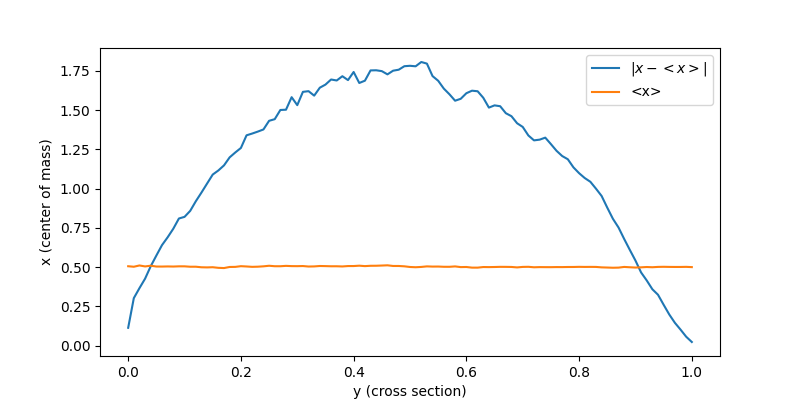
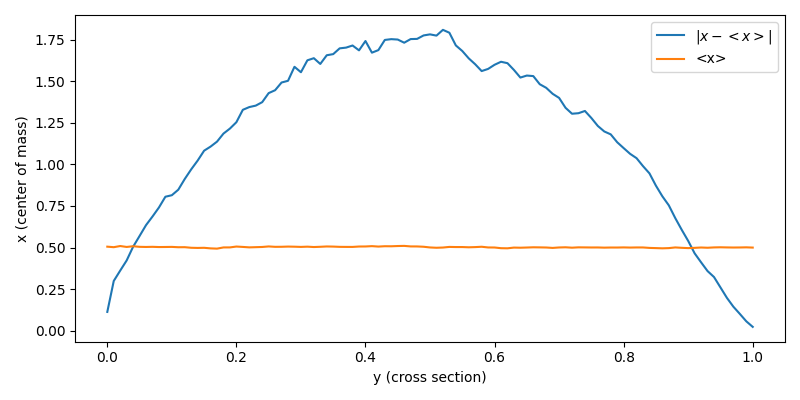
#26 Plots added; #24 Operational Excellence tasks

diff --git a/src/utils.py b/src/utils.py
@@ -2,6 +2,8 @@ import os
 import matplotlib.pyplot as plt
 import numpy as np
 
+from matplotlib.cm import get_cmap
+
 def plot_boolean_grid(grid, save_plot, filename):
     """
     Plots the final seed growth grid.
@@ -26,6 +28,8 @@ def plot_boolean_grid(grid, save_plot, filename):
     plt.imshow(grid, cmap="gray_r", origin="upper", extent=[0, 1, 0, 1])
     plt.axis("off")
 
+    plt.tight_layout() 
+
     if save_plot:
         plt.savefig(file_location, dpi=300)
         print(f"Plot saved as {file_location}")
@@ -49,6 +53,8 @@ def generate_heatmap(all_seed_growth_grids,
     plt.xlabel(xlabel, fontsize=16)
     plt.ylabel(ylabel, fontsize=16)
 
+    plt.tight_layout() 
+
     if save_plot:
         os.makedirs("results", exist_ok=True)
         save_location = os.path.join("results", plot_file_name)
@@ -68,6 +74,8 @@ def plot_histogram(data,
     #plt.title(title)
     plt.xlabel(xlabel, fontsize=16)
     plt.ylabel(ylabel, fontsize=16)
+
+    plt.tight_layout() 
     
     if save_plot:
         os.makedirs("results", exist_ok=True)
@@ -93,6 +101,8 @@ def plot_many_line(data_array,
     plt.xlabel(xlabel, fontsize=16)
     plt.ylabel(ylabel, fontsize=16)
     plt.legend()
+
+    plt.tight_layout() 
     
     if save_plot:
         os.makedirs("results", exist_ok=True)
@@ -121,6 +131,8 @@ def plot_variance(data,
     #plt.title(title)
     plt.xlabel(xlabel, fontsize=16)
     plt.ylabel(ylabel, fontsize=16)
+
+    plt.tight_layout() 
     
     if save_plot:
         os.makedirs("results", exist_ok=True)
@@ -153,6 +165,8 @@ def plot_many_runs_experiment(data,
     plt.ylabel('x (center of mass)')
     plt.legend()
 
+    plt.tight_layout() 
+
     if save_plot:
         plot_file_name = "deviation_" + plot_file_name
         os.makedirs("results", exist_ok=True)
@@ -163,9 +177,11 @@ def plot_many_runs_experiment(data,
     
     plt.figure(figsize=(8, 4))
     plt.plot(ys, num_cells_per_cross, label='$N_y$')
-    plt.xlabel('y (cross section)')
-    plt.ylabel('Number of cells')
+    plt.xlabel('y (cross section)', fontsize=16)
+    plt.ylabel('Number of cells', fontsize=16)
     plt.legend()
+
+    plt.tight_layout() 
 
     if save_plot:
         plot_file_name = "cross_section_" + plot_file_name
@@ -181,8 +197,9 @@ def plot_many_runs_experiment_multiple(sticking_prob_array,
                             plot_file_name="flat_histogram.png"):
     
     plt.figure(figsize=(8, 4))
+    cmap = get_cmap('winter')  # Use a colormap with easily distinguishable colors
 
-    for sticking_prob in sticking_prob_array:
+    for i, sticking_prob in enumerate(sticking_prob_array):
         sticking_prob_str = str(sticking_prob).replace(".", "_")
         data = load_data(load_file_name + str(sticking_prob_str) + "_sp.npy")
         num_runs, _, grid_size = data.shape
@@ -194,11 +211,13 @@ def plot_many_runs_experiment_multiple(sticking_prob_array,
         xdiff = np.abs(xs - center)
 
         num_cells_per_cross = np.sum(sum_grid, axis=1) / num_runs
-        plt.plot(ys, num_cells_per_cross, label=str(sticking_prob))
+        plt.plot(ys, num_cells_per_cross, label=str(sticking_prob), color=cmap(i/len(sticking_prob_array)))
 
-    plt.xlabel('y (cross section)')
-    plt.ylabel('Number of cells')
+    plt.xlabel('y (cross section)', fontsize=16)
+    plt.ylabel('Number of cells', fontsize=16)
     plt.legend()
+
+    plt.tight_layout() 
 
     if save_plot:
         plot_file_name = "cross_section_" + plot_file_name
@@ -224,6 +243,8 @@ def flat_histogram(data,
     plt.xlabel(xlabel, fontsize=16)
     plt.ylabel(ylabel, fontsize=16)
     plt.yscale('log')
+
+    plt.tight_layout() 
 
     if save_plot:
         os.makedirs("results", exist_ok=True)
@@ -255,6 +276,8 @@ def flat_histogram_multiple(sticking_prob_array,
     plt.ylabel(ylabel, fontsize=16)
     plt.legend()
     plt.yscale('log')
+
+    plt.tight_layout() 
 
     if save_plot:
         os.makedirs("results", exist_ok=True)

diff --git a/scripts/script_monte_carlo_plot_multi.py b/scripts/script_monte_carlo_plot_multi.py
@@ -1,8 +1,7 @@
 import os
 import numpy as np
 
-from src.monte_carlo import run_multiple_simulations
-from src.utils import generate_heatmap, save_data, plot_histogram, plot_many_line, plot_variance, flat_histogram, plot_many_runs_experiment, flat_histogram_multiple, plot_many_runs_experiment_multiple
+from src.utils import generate_heatmap, plot_histogram, plot_many_line, plot_variance, flat_histogram, plot_many_runs_experiment, flat_histogram_multiple, plot_many_runs_experiment_multiple
 
 def generate_save_names(sticking_prob_str):
     return [
@@ -16,30 +15,6 @@ def generate_save_names(sticking_prob_str):
 
 def load_data_files(save_names):
     return [np.load(os.path.join("data", name)) for name in save_names]
-
-def scrpt_monte_carlo_multiple_simulations(grid_size, sticking_prob, num_simulations, save_names):
-    final_seed_growth_states_save_file, \
-    all_walk_counts_save_file, \
-    all_successful_walks_save_file, \
-    all_avg_walk_lengths_save_file, \
-    all_avg_successful_walk_lengths_save_file, \
-    all_growth_over_time_save_file = save_names
-
-    (final_seed_growth_states, 
-     all_walk_counts, 
-     all_successful_walks, 
-     all_avg_walk_lengths, 
-     all_avg_successful_walk_lengths,
-     all_growth_over_time) = run_multiple_simulations(grid_size, sticking_prob, num_simulations)
-    
-    save_data(final_seed_growth_states, final_seed_growth_states_save_file)
-    save_data(all_walk_counts, all_walk_counts_save_file)
-    save_data(all_successful_walks, all_successful_walks_save_file)
-    save_data(all_avg_walk_lengths, all_avg_walk_lengths_save_file)
-    save_data(all_avg_successful_walk_lengths, all_avg_successful_walk_lengths_save_file)
-    save_data(all_growth_over_time, all_growth_over_time_save_file)
-
-    print("All data saved successfully")
 
 def scrpt_plot_monte_carlo_results(sticking_prob):
     sticking_prob_str = str(sticking_prob).replace(".", "_")
@@ -57,18 +32,10 @@ def scrpt_plot_monte_carlo_results(sticking_prob):
     plot_variance(all_growth_over_time, "Growth over time", "Time", "Growth", save_plot=True, plot_file_name="variance_" + save_names[5].replace(".npy", ".png"))
     plot_many_line(all_growth_over_time, "Growth over time", "Time", "Growth", save_plot=True, plot_file_name="lines_" + save_names[5].replace(".npy", ".png"))
 
-def run_multiple_sticking_probs(grid_size, sticking_prob_array, num_simulations):
-    for sticking_prob in sticking_prob_array:
-        sticking_prob_str = str(sticking_prob).replace(".", "_")
-        save_names = generate_save_names(sticking_prob_str)
-        scrpt_monte_carlo_multiple_simulations(grid_size, sticking_prob, num_simulations, save_names)
-
 if __name__ == "__main__":
-    grid_size = 101
-    sticking_prob = 0.1
-    max_walkers_per_sim = 100000
-    num_simulations = 20
-    """
+
+    sticking_prob = 1.0
+    
     scrpt_plot_monte_carlo_results(sticking_prob)
 
     plot_many_runs_experiment_multiple([0.1,0.2,0.3,0.4,0.5,0.6,0.7,0.8,0.9,1.0],
@@ -83,8 +50,3 @@ if __name__ == "__main__":
                             "final_seed_growth_states_",
                             save_plot=True, 
                             plot_file_name="flat_histogram_multiple.png")
-    """
-
-    sticking_prob_array = [0.1,0.2,0.3,0.4,0.5,0.6,0.7,0.8,0.9,1.0]
-
-    run_multiple_sticking_probs(grid_size, sticking_prob_array, num_simulations)

diff --git a/scripts/script_monte_carlo_sim_multi.py b/scripts/script_monte_carlo_sim_multi.py
@@ -1,0 +1,56 @@
+import os
+import numpy as np
+
+from src.monte_carlo import run_multiple_simulations
+from src.utils import save_data
+
+def generate_save_names(sticking_prob_str):
+    return [
+        f"final_seed_growth_states_{sticking_prob_str}_sp.npy",
+        f"all_walk_counts_{sticking_prob_str}_sp.npy",
+        f"all_successful_walks_{sticking_prob_str}_sp.npy",
+        f"all_avg_walk_lengths_{sticking_prob_str}_sp.npy",
+        f"all_avg_successful_walk_lengths_{sticking_prob_str}_sp.npy",
+        f"all_growth_over_time_{sticking_prob_str}_sp.npy"
+    ]
+
+def load_data_files(save_names):
+    return [np.load(os.path.join("data", name)) for name in save_names]
+
+def scrpt_monte_carlo_multiple_simulations(grid_size, sticking_prob, num_simulations, save_names):
+    final_seed_growth_states_save_file, \
+    all_walk_counts_save_file, \
+    all_successful_walks_save_file, \
+    all_avg_walk_lengths_save_file, \
+    all_avg_successful_walk_lengths_save_file, \
+    all_growth_over_time_save_file = save_names
+
+    (final_seed_growth_states, 
+     all_walk_counts, 
+     all_successful_walks, 
+     all_avg_walk_lengths, 
+     all_avg_successful_walk_lengths,
+     all_growth_over_time) = run_multiple_simulations(grid_size, sticking_prob, num_simulations)
+    
+    save_data(final_seed_growth_states, final_seed_growth_states_save_file)
+    save_data(all_walk_counts, all_walk_counts_save_file)
+    save_data(all_successful_walks, all_successful_walks_save_file)
+    save_data(all_avg_walk_lengths, all_avg_walk_lengths_save_file)
+    save_data(all_avg_successful_walk_lengths, all_avg_successful_walk_lengths_save_file)
+    save_data(all_growth_over_time, all_growth_over_time_save_file)
+
+    print("All data saved successfully")
+
+def run_multiple_sticking_probs(grid_size, sticking_prob_array, num_simulations):
+    for sticking_prob in sticking_prob_array:
+        sticking_prob_str = str(sticking_prob).replace(".", "_")
+        save_names = generate_save_names(sticking_prob_str)
+        scrpt_monte_carlo_multiple_simulations(grid_size, sticking_prob, num_simulations, save_names)
+
+if __name__ == "__main__":
+    grid_size = 101
+    sticking_prob_array = [0.1,0.2,0.3,0.4,0.5,0.6,0.7,0.8,0.9,1.0]
+
+    num_simulations = 20
+
+    run_multiple_sticking_probs(grid_size, sticking_prob_array, num_simulations)

diff --git a/README.md b/README.md
@@ -35,7 +35,7 @@ pip install -e .
 
 5. **Download Data**: Due to the size of the data, it needs to be downloaded from [this Google Drive](https://drive.google.com/drive/folders/1fPOr1cQ9oqUu0NXwZVy0CqGNobJ3KBoG?usp=sharing) and placed in the data directory `main/data`.
 
-6. **Run Simulations**: Use the provided scripts to run the simulations. For example, to run a Monte Carlo simulation:
+6. **Run Simulations**: Use the provided scripts to run the simulations. For example, to run a single Monte Carlo simulation, modify and run:
 ```sh
 python scripts/script_monte_carlo_single.py
 ```
@@ -54,8 +54,9 @@ The Diffusion Limited Aggregation, Monte Carlo Random Walk, and Gray-Scott model
 
 - `src/monte_carlo.py`: Contains the implementation of the Monte Carlo random walk simulation.
 - `src/utils.py`: Contains utility functions for plotting and saving data.
-- `scripts/script_monte_carlo_single.py`: Script to run a single Monte Carlo simulation.
-- `scripts/script_monte_carlo_multiple.py`: Script to run multiple Monte Carlo simulations and save the results.
+- `scripts/script_monte_carlo_single.py`: Script to run a single Monte Carlo simulation with variable parameters.
+- `scripts/script_monte_carlo_sim_multi.py`: Script to run multiple Monte Carlo simulations and save the results with variable parameters
+- `scripts/script_monte_carlo_plot_multi.py`: Script to read Monte Carlo Simulation data output from `script_monte_carlo_sim_multi.py` read from `\data` repository.
 
 ## Contributing
 If you would like to contribute to this project, please follow these steps:
